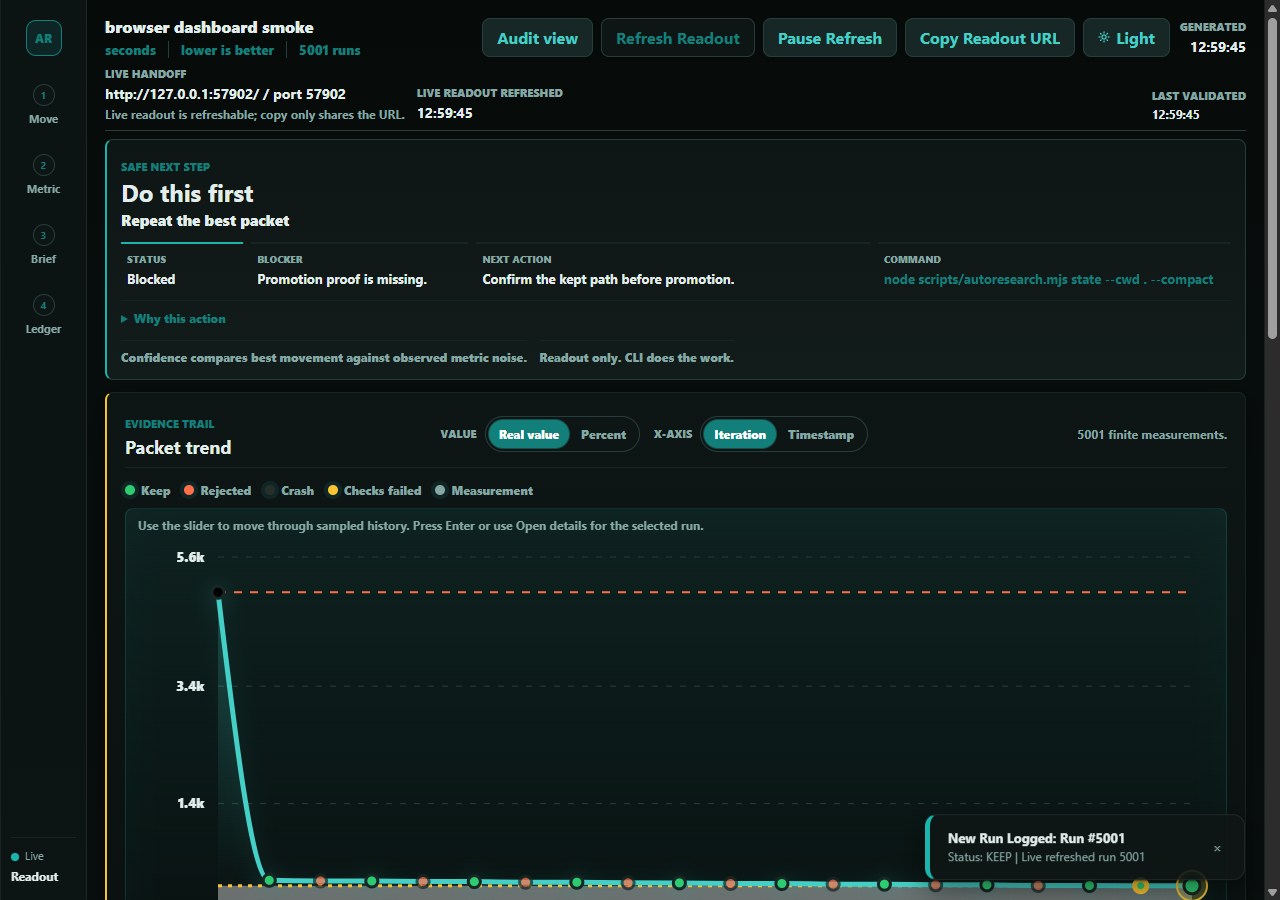
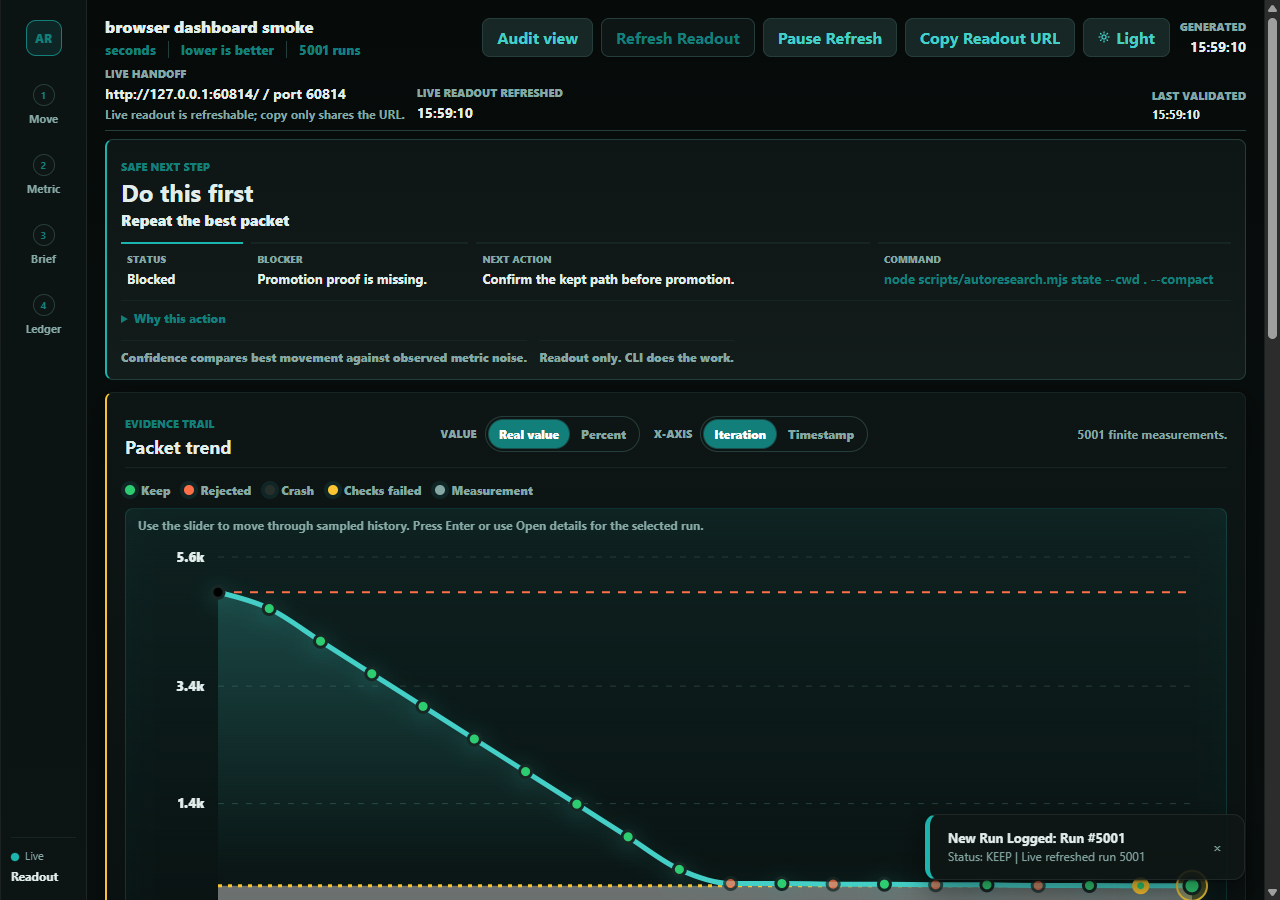
fix: preserve chart history coverage

diff --git a/plugins/codex-autoresearch/tests/dashboard/chart-metrics.test.ts b/plugins/codex-autoresearch/tests/dashboard/chart-metrics.test.ts
@@ -66,6 +66,59 @@ test("dashboard chart samples full bounded history while preserving semantic anc
   assert.equal(sampled.find((point) => point.runNumber === 777)?.heldMetric, true);
 });
 
+test("dashboard chart reserves full-history coverage when every run changes status", () => {
+  const runs: SessionRun[] = Array.from({ length: 5_001 }, (_, index) => {
+    const run = index + 1;
+    const status =
+      run === 3_333
+        ? "crash"
+        : run === 4_444
+          ? "checks_failed"
+          : run % 2 === 0
+            ? "discard"
+            : "keep";
+    return {
+      run,
+      metric: status === "crash" || status === "checks_failed" ? null : 5_002 - run,
+      status,
+      description: `Run ${run}`,
+      metrics: {},
+      asi: {},
+      segment: 0,
+    };
+  });
+  const session = {
+    segment: 0,
+    config: { metricName: "seconds", metricUnit: "s", bestDirection: "lower" as const },
+    runs,
+  };
+  const readout = buildReadout(session);
+  const sampledRuns = sampleTrendChartData(
+    buildChartData(buildChart(session, readout), readout),
+    10,
+    2_600,
+  ).map((point) => point.runNumber);
+  const anchors = new Set([1, 2_600, 3_333, 4_444, 5_001]);
+  const coverageRuns = sampledRuns.filter((run) => !anchors.has(run) && run < 4_900);
+
+  assert.equal(sampledRuns.length, 10);
+  for (const anchor of anchors) {
+    assert.ok(sampledRuns.includes(anchor), `missing sampled run ${anchor}`);
+  }
+  assert.ok(
+    coverageRuns.some((run) => run < 1_667),
+    `missing early coverage: ${sampledRuns}`,
+  );
+  assert.ok(
+    coverageRuns.some((run) => run >= 1_667 && run < 3_334),
+    `missing middle coverage: ${sampledRuns}`,
+  );
+  assert.ok(
+    coverageRuns.some((run) => run >= 3_334),
+    `missing late coverage: ${sampledRuns}`,
+  );
+});
+
 test("dashboard summary cannot override the best accepted visible keep", () => {
   const runs: SessionRun[] = Array.from({ length: 4 }, (_, index) => ({
     run: index + 102,

diff --git a/plugins/codex-autoresearch/dashboard/src/model/timeline-sampling.ts b/plugins/codex-autoresearch/dashboard/src/model/timeline-sampling.ts
@@ -16,6 +16,13 @@ export function sampleTimeline<T extends object>(
   const add = (item: T | null | undefined) => {
     if (item && selected.size < maxItems) selected.add(key(item));
   };
+  const addEvenly = (slots: number) => {
+    const remaining = items.filter((item) => !selected.has(key(item)));
+    for (let slot = 0; slot < slots; slot += 1) {
+      const index = Math.floor(((slot + 0.5) * remaining.length) / slots);
+      add(remaining[Math.min(index, remaining.length - 1)]);
+    }
+  };
 
   add(items[0]);
   add(items.at(-1));
@@ -25,15 +32,13 @@ export function sampleTimeline<T extends object>(
   for (const failureStatus of ["crash", "checks_failed"]) {
     add(items.findLast((item) => status(item) === failureStatus));
   }
+
+  addEvenly(Math.ceil((maxItems - selected.size) / 2));
+
   for (let index = items.length - 1; index > 0 && selected.size < maxItems; index -= 1) {
     if (status(items[index]) !== status(items[index - 1])) add(items[index]);
   }
 
-  const remaining = items.filter((item) => !selected.has(key(item)));
-  const slots = maxItems - selected.size;
-  for (let slot = 0; slot < slots; slot += 1) {
-    const index = Math.floor(((slot + 0.5) * remaining.length) / slots);
-    add(remaining[Math.min(index, remaining.length - 1)]);
-  }
+  addEvenly(maxItems - selected.size);
   return items.filter((item) => selected.has(key(item)));
 }
